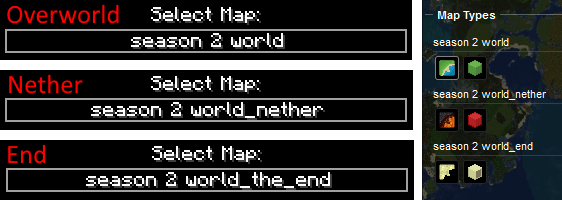
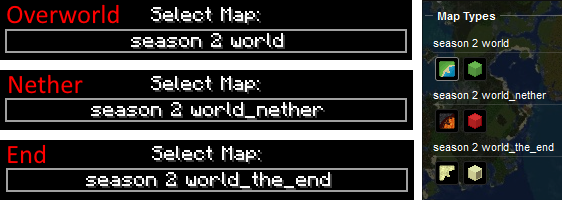
Updated readme Added server address setup instructions. Fixed typo in world names image.

diff --git a/README.md b/README.md
@@ -15,6 +15,12 @@ Example setup:
 
 ![Map names must match Dynmap world names](/images/maps_setup.png)
 
+Server address must match the configured server address -> Dynmap URL mapping exactly as entered in the server settings.
+
+Example setup:
+
+![Server address must match](/images/server_address_setup.png)
+
 ## Commands
 `/remoteplayers info <player name>` get info about a player
 
